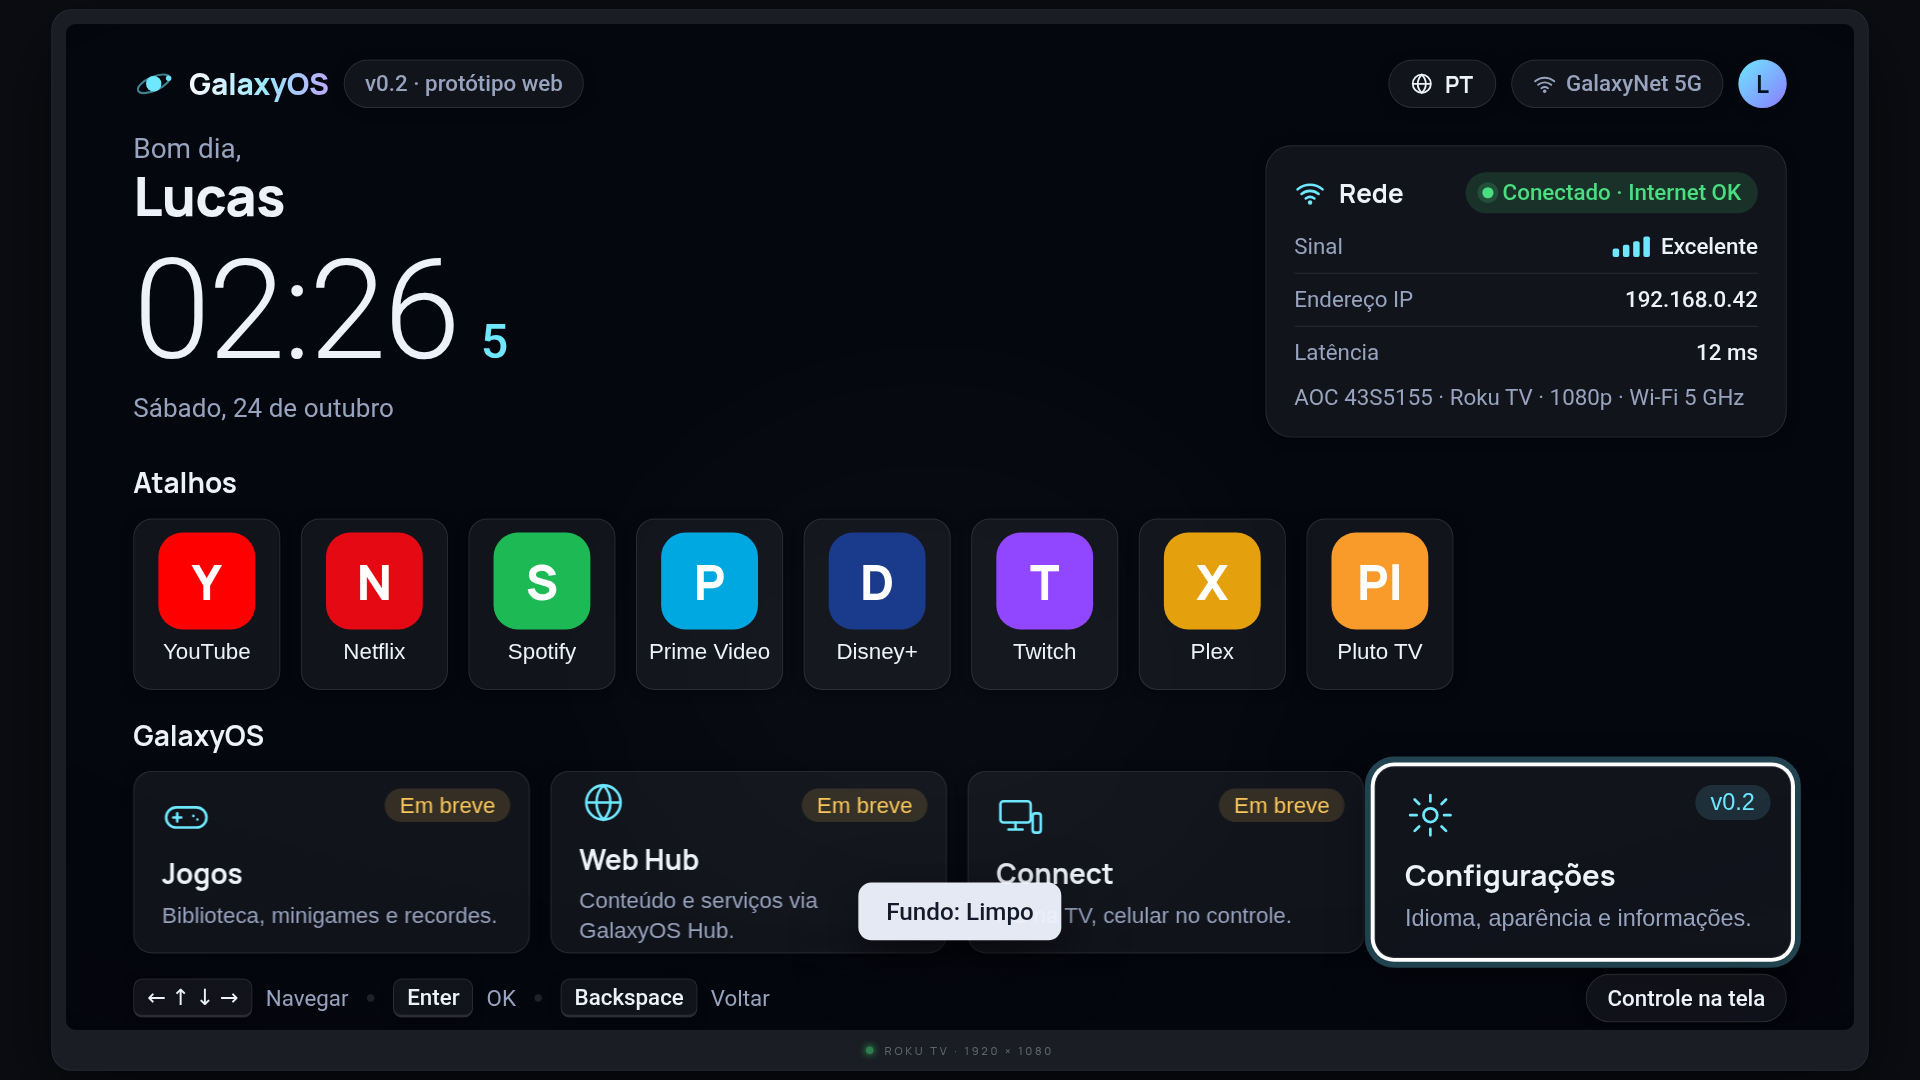
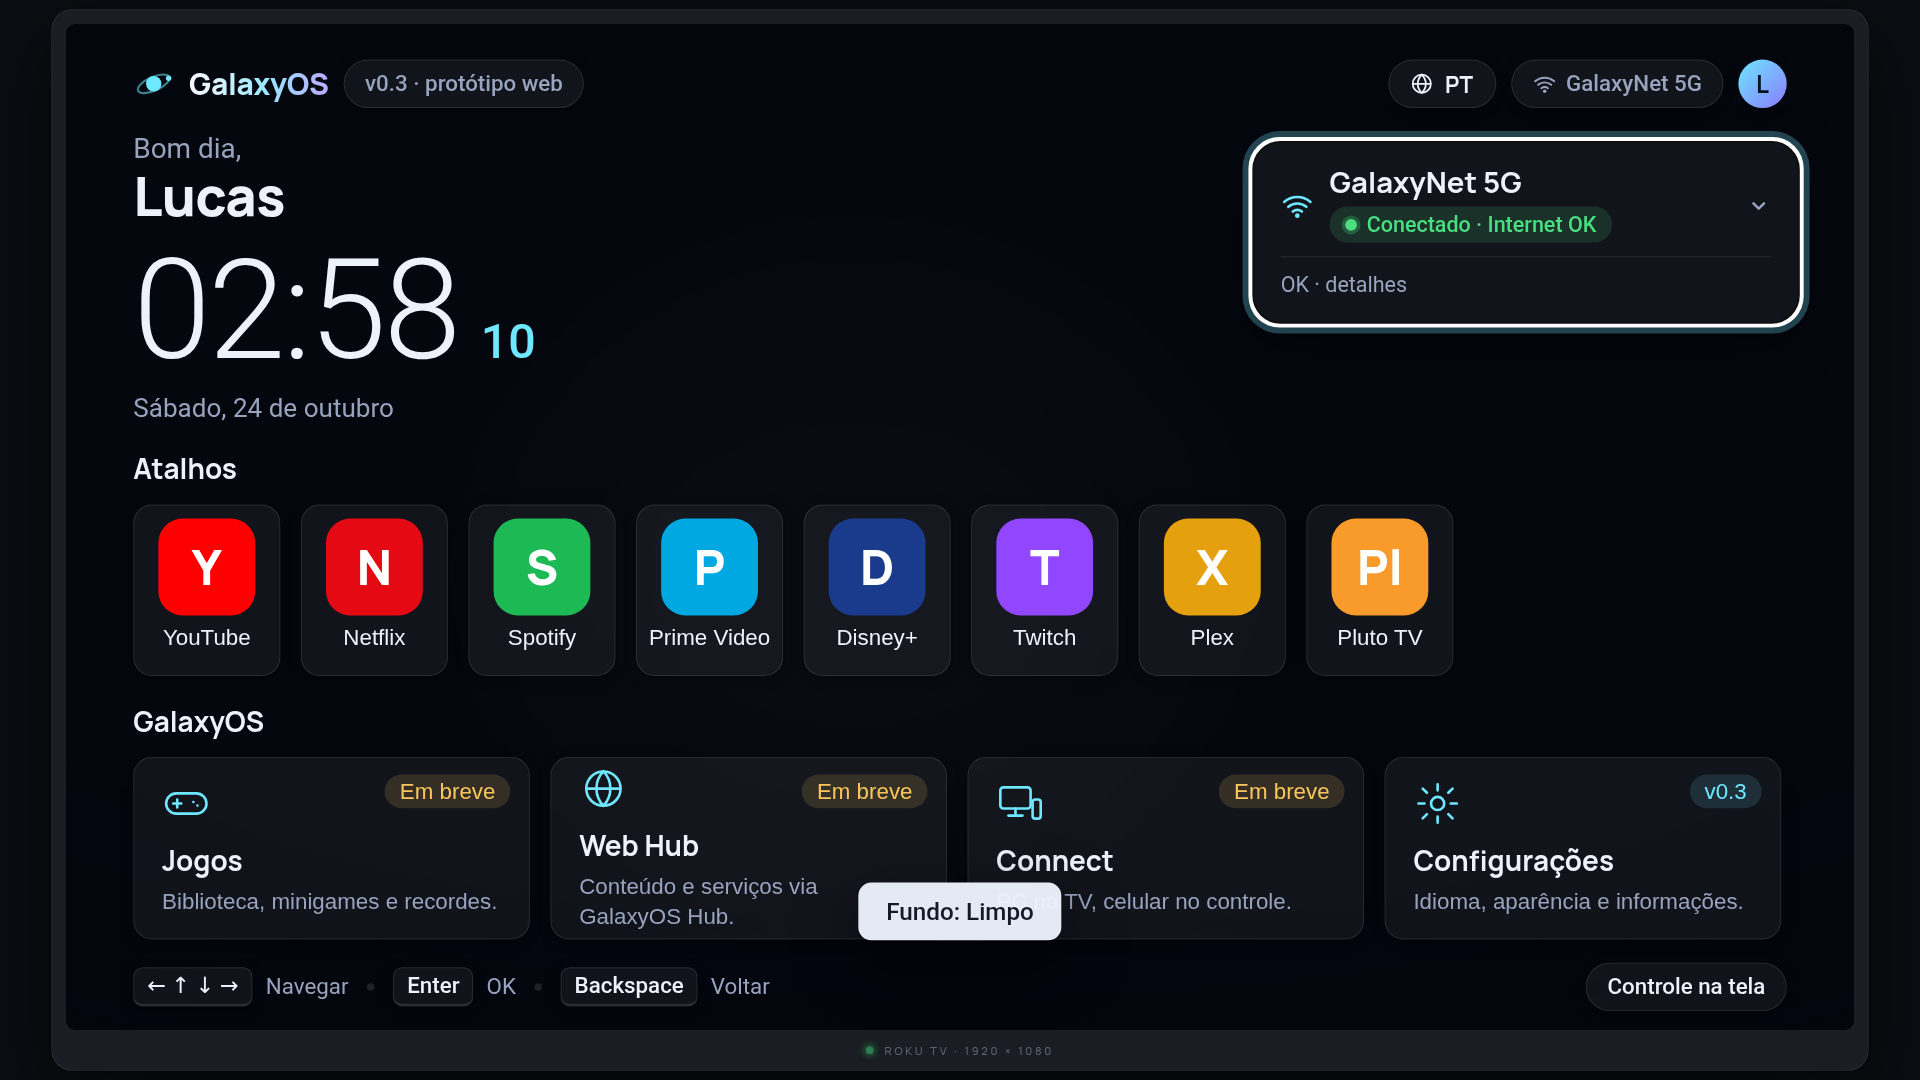
v0.3 — Configurações em drawer lateral + card de rede compacto
- Configurações vira drawer de vidro na direita (Home visível à esquerda)
- Corrige bug: botões X (settings/remote) sem data-focusable não fechavam
- Card de rede: só nome + status; sinal/IP/latência em submenu (OK abre popover)
- Fechar: X, clique no scrim ou Back; submenu fecha ao tirar o foco
- i18n PT/EN atualizado, v0.3

diff --git a/prototype/index.html b/prototype/index.html
@@ -39,7 +39,7 @@
           <circle cx="41.5" cy="17.5" r="3.2" fill="var(--accent)"/>
         </svg>
         <span class="brand-name">GalaxyOS</span>
-        <span class="chip chip-soft" data-i18n="versionChip">v0.2 · protótipo web</span>
+        <span class="chip chip-soft" data-i18n="versionChip">v0.3 · protótipo web</span>
       </div>
       <div class="topbar-right">
         <button class="chip chip-btn" id="langChip" data-focusable aria-label="Idioma / Language">
@@ -65,20 +65,30 @@
         <p class="clock-date" id="clockDate">—</p>
       </div>
 
-      <div class="netcard" aria-label="Status da rede">
-        <div class="netcard-head">
-          <svg class="i-wifi big" viewBox="0 0 24 24" aria-hidden="true"><path d="M2.5 9.5a14.5 14.5 0 0 1 19 0M5.5 13a10 10 0 0 1 13 0M8.7 16.4a5.5 5.5 0 0 1 6.6 0" fill="none" stroke="currentColor" stroke-width="1.9" stroke-linecap="round"/><circle cx="12" cy="19.4" r="1.7" fill="currentColor"/></svg>
-          <h2 data-i18n="netTitle">Rede</h2>
-          <span class="netcard-badge"><span class="dot dot-ok"></span><span data-i18n="netStatus">Conectado · Internet OK</span></span>
+      <!-- card compacto: nome + status; detalhes ficam num submenu (OK) -->
+      <div class="netcard-wrap">
+        <div class="netcard" id="netcard" data-focusable data-activate role="button" tabindex="-1"
+             aria-expanded="false" aria-controls="netDetails" aria-label="Status da rede">
+          <div class="netcard-row">
+            <svg class="i-wifi big" viewBox="0 0 24 24" aria-hidden="true"><path d="M2.5 9.5a14.5 14.5 0 0 1 19 0M5.5 13a10 10 0 0 1 13 0M8.7 16.4a5.5 5.5 0 0 1 6.6 0" fill="none" stroke="currentColor" stroke-width="1.9" stroke-linecap="round"/><circle cx="12" cy="19.4" r="1.7" fill="currentColor"/></svg>
+            <div class="netcard-id">
+              <span class="netcard-name">GalaxyNet 5G</span>
+              <span class="netcard-badge"><span class="dot dot-ok"></span><span data-i18n="netStatus">Conectado · Internet OK</span></span>
+            </div>
+            <svg class="chev" viewBox="0 0 24 24" aria-hidden="true"><path d="M7 10l5 5 5-5" fill="none" stroke="currentColor" stroke-width="2.4" stroke-linecap="round" stroke-linejoin="round"/></svg>
+          </div>
+          <p class="netcard-more" data-i18n="netMore">OK · detalhes</p>
         </div>
-        <dl class="netcard-rows">
-          <div class="netcard-row"><dt data-i18n="netSignal">Sinal</dt><dd>
-            <span class="bars" aria-hidden="true"><i></i><i></i><i></i><i></i></span>
-            <span data-i18n="netSignalValue">Excelente</span></dd></div>
-          <div class="netcard-row"><dt data-i18n="netIp">Endereço IP</dt><dd class="mono">192.168.0.42</dd></div>
-          <div class="netcard-row"><dt data-i18n="netPing">Latência</dt><dd class="mono">12 ms</dd></div>
-        </dl>
-        <p class="netcard-foot">AOC 43S5155 · Roku TV · 1080p · Wi-Fi 5 GHz</p>
+        <div class="netcard-pop" id="netDetails" hidden>
+          <dl class="netcard-rows">
+            <div class="netcard-row"><dt data-i18n="netSignal">Sinal</dt><dd>
+              <span class="bars" aria-hidden="true"><i></i><i></i><i></i><i></i></span>
+              <span data-i18n="netSignalValue">Excelente</span></dd></div>
+            <div class="netcard-row"><dt data-i18n="netIp">Endereço IP</dt><dd class="mono">192.168.0.42</dd></div>
+            <div class="netcard-row"><dt data-i18n="netPing">Latência</dt><dd class="mono">12 ms</dd></div>
+          </dl>
+          <p class="netcard-foot">AOC 43S5155 · Roku TV · 1080p · Wi-Fi 5 GHz</p>
+        </div>
       </div>
     </section>
 
@@ -134,7 +144,7 @@
         </button>
 
         <button class="module" data-focusable data-module="settings">
-          <span class="module-badge badge-now" data-i18n="badgeNow">v0.2</span>
+          <span class="module-badge badge-now" data-i18n="badgeNow">v0.3</span>
           <svg class="module-icon" viewBox="0 0 48 48" aria-hidden="true">
             <circle cx="24" cy="24" r="6.5" fill="none" stroke="currentColor" stroke-width="2.6"/>
             <path d="M24 5v6M24 37v6M9.2 9.2l4.2 4.2M34.6 34.6l4.2 4.2M5 24h6M37 24h6M9.2 38.8l4.2-4.2M34.6 13.4l4.2-4.2" stroke="currentColor" stroke-width="2.6" stroke-linecap="round"/>
@@ -161,7 +171,7 @@
     <!-- ══ CONTROLE NA TELA (p/ celular) ══ -->
     <div class="remote" id="remote" hidden>
       <div class="remote-head"><span data-i18n="remoteTitle">Controle</span>
-        <button class="icon-btn" id="remoteClose" aria-label="Fechar controle">
+        <button class="icon-btn" id="remoteClose" data-focusable aria-label="Fechar controle">
           <svg viewBox="0 0 24 24"><path d="M6 6l12 12M18 6L6 18" stroke="currentColor" stroke-width="2.4" stroke-linecap="round"/></svg>
         </button>
       </div>
@@ -177,10 +187,10 @@
 
     <!-- ══ CONFIGURAÇÕES ══ -->
     <div class="overlay" id="overlaySettings" hidden>
-      <div class="modal" role="dialog" aria-modal="true" aria-labelledby="settingsTitle">
+      <div class="drawer" role="dialog" aria-modal="true" aria-labelledby="settingsTitle">
         <div class="modal-head">
           <h2 id="settingsTitle" data-i18n="settings">Configurações</h2>
-          <button class="icon-btn" id="settingsClose" aria-label="Fechar">
+          <button class="icon-btn" id="settingsClose" data-focusable aria-label="Fechar">
             <svg viewBox="0 0 24 24"><path d="M6 6l12 12M18 6L6 18" stroke="currentColor" stroke-width="2.4" stroke-linecap="round"/></svg>
           </button>
         </div>

diff --git a/prototype/css/style.css b/prototype/css/style.css
@@ -24,7 +24,7 @@
   --ok:#4ADE80;   --ok-soft:rgba(74,222,128,.15);   --pulse:rgba(74,222,128,.42);
   --warn:#FBC75C; --warn-soft:rgba(251,199,92,.15);
   --toast-bg:rgba(238,243,253,.96); --toast-fg:#131A29;
-  --scrim:rgba(3,5,12,.58);
+  --scrim:rgba(3,5,12,.38);
   --avatar-bg:linear-gradient(135deg,#6EE7FF,#8B7CFF);
   --avatar-fg:#04121C;
   --r-lg:28px; --r-md:20px; --r-sm:14px;
@@ -68,7 +68,7 @@ html[data-theme='light']{
   --ok:#14804A;   --ok-soft:#E3F4EB;   --pulse:rgba(20,128,74,.35);
   --warn:#92400E; --warn-soft:#FCEFC7;
   --toast-bg:#1B2233; --toast-fg:#FFFFFF;
-  --scrim:rgba(16,18,22,.45);
+  --scrim:rgba(16,18,22,.30);
   --avatar-bg:#0B57D0;
   --avatar-fg:#FFFFFF;
   --sh-1:0 2px 10px rgba(27,34,51,.06);
@@ -187,6 +187,7 @@ html[data-theme='dark'] .brand-name{
   flex:none;display:grid;grid-template-columns:1fr 560px;gap:56px;
   align-items:start;margin-top:16px;
 }
+.hero.pop-open{z-index:20}
 .greeting{font-size:30px;color:var(--text-2);font-weight:400}
 .user-name{font-family:var(--f-display);font-weight:800;font-size:58px;letter-spacing:-.015em;line-height:1.08;margin-top:2px}
 .clock{margin-top:16px;display:flex;align-items:baseline;gap:24px}
@@ -200,17 +201,35 @@ html[data-theme='dark'] .brand-name{
 }
 .clock-date{margin-top:14px;font-size:28px;color:var(--text-2)}
 
+/* ── card de rede compacto: só nome + status (os detalhes
+   vivem no popover abaixo, aberto com OK) ── */
+.netcard-wrap{position:relative;margin-top:14px}
 .netcard{
   background:var(--surface);border:1px solid var(--line);border-radius:var(--r-lg);
-  box-shadow:var(--sh-1);padding:28px 30px;margin-top:14px;
-  backdrop-filter:blur(7px);
+  box-shadow:var(--sh-1);padding:26px 28px;backdrop-filter:blur(7px);cursor:pointer;
+  display:flex;flex-direction:column;gap:16px;
 }
-.netcard-head{display:flex;align-items:center;gap:14px}
-.netcard-head h2{font-family:var(--f-display);font-weight:700;font-size:28px;margin-right:auto}
-.netcard-head .i-wifi.big{width:34px;height:34px;color:var(--accent)}
+.netcard-row{display:flex;align-items:center;gap:16px}
+.netcard .i-wifi.big{width:34px;height:34px;color:var(--accent);flex:none}
+.netcard-id{display:flex;flex-direction:column;gap:10px;margin-right:auto}
+.netcard-name{font-family:var(--f-display);font-weight:700;font-size:30px;line-height:1;color:var(--text)}
+.chev{width:26px;height:26px;color:var(--text-2);flex:none;transition:transform .18s ease-out}
+.netcard[aria-expanded="true"] .chev{transform:rotate(180deg)}
+.netcard-more{font-size:22px;color:var(--text-2)}
+
+/* submenu de detalhes (popover de vidro) */
+.netcard-pop{
+  position:absolute;top:calc(100% + 14px);right:0;width:100%;
+  background:var(--panel);border:1px solid var(--line);border-radius:var(--r-md);
+  box-shadow:var(--sh-2);backdrop-filter:blur(20px);
+  padding:24px 28px;z-index:30;
+  animation:pop-in .2s cubic-bezier(.2,.8,.2,1);
+}
+@keyframes pop-in{from{opacity:0;transform:translateY(-8px)}}
+.netcard-pop .netcard-rows{margin-top:0}
 .netcard-badge{
   display:inline-flex;align-items:center;gap:10px;background:var(--ok-soft);color:var(--ok);
-  font-size:24px;font-weight:500;border-radius:22px;padding:8px 18px
+  font-size:22px;font-weight:500;border-radius:22px;padding:6px 16px;width:fit-content
 }
 .dot{width:12px;height:12px;border-radius:50%;flex:none}
 .dot-ok{background:var(--ok);animation:pulse 2.2s ease-in-out infinite}
@@ -269,7 +288,7 @@ button:focus{outline:none}
 .focused .tile-glyph{transform:translateY(-2px)}
 .focused.chip-btn:not(.active),.focused.tile,.focused.module,
 .focused.icon-btn:not(.active),.focused.seg-btn:not(.active){background:var(--surface)}
-.tile,.module,.chip-btn,.icon-btn,.seg-btn{transition:transform .13s ease-out, box-shadow .13s ease-out, background .13s ease-out}
+.tile,.module,.chip-btn,.icon-btn,.seg-btn,.netcard{transition:transform .13s ease-out, box-shadow .13s ease-out, background .13s ease-out}
 
 /* ══ BARRA DE AJUDA ══ */
 .hintbar{
@@ -320,16 +339,20 @@ button:focus{outline:none}
 }
 .remote-back,.dp-ok,.dp-btn,.icon-btn{transition:transform .1s ease-out}
 
-/* ══ OVERLAY DE CONFIGURAÇÕES ══ */
+/* ══ OVERLAY + DRAWER LATERAL DE CONFIGURAÇÕES ══
+   drawer na direita: a Home continua visível à esquerda */
 .overlay{
-  position:absolute;inset:0;background:var(--scrim);backdrop-filter:blur(3px);
-  display:flex;align-items:center;justify-content:center;z-index:60
+  position:absolute;inset:0;background:var(--scrim);backdrop-filter:blur(2.5px);
+  display:flex;align-items:stretch;justify-content:flex-end;z-index:60
 }
-.modal{
-  width:820px;max-height:975px;background:var(--panel);border:1px solid var(--line);border-radius:var(--r-lg);
+.drawer{
+  width:640px;height:100%;background:var(--panel);border:1px solid var(--line);border-right:none;
+  border-radius:var(--r-lg) 0 0 var(--r-lg);
   box-shadow:var(--sh-2);backdrop-filter:blur(22px);
-  padding:30px 36px;display:flex;flex-direction:column;overflow:auto
+  padding:30px 36px;display:flex;flex-direction:column;overflow:auto;
+  animation:drawer-in .26s cubic-bezier(.2,.8,.2,1)
 }
+@keyframes drawer-in{from{transform:translateX(80px);opacity:0}}
 .modal-head{display:flex;align-items:center;justify-content:space-between;margin-bottom:6px}
 .modal-head h2{font-family:var(--f-display);font-weight:800;font-size:40px}
 .modal-section{margin-top:20px}

diff --git a/prototype/js/app.js b/prototype/js/app.js
@@ -11,17 +11,18 @@
 
 const I18N = {
   pt: {
-    versionChip: 'v0.2 · protótipo web',
+    versionChip: 'v0.3 · protótipo web',
     greetingMorning: 'Bom dia,', greetingAfternoon: 'Boa tarde,', greetingEvening: 'Boa noite,',
     netTitle: 'Rede', netStatus: 'Conectado · Internet OK',
     netSignal: 'Sinal', netSignalValue: 'Excelente',
     netIp: 'Endereço IP', netPing: 'Latência',
+    netMore: 'OK · detalhes',
     shortcuts: 'Atalhos', modules: 'GalaxyOS',
     modGames: 'Jogos', modGamesDesc: 'Biblioteca, minigames e recordes.',
     modWebDesc: 'Conteúdo e serviços via GalaxyOS Hub.',
     modConnectDesc: 'PC na TV, celular no controle.',
     modSettings: 'Configurações', modSettingsDesc: 'Idioma, aparência e informações.',
-    badgeSoon: 'Em breve', badgeNow: 'v0.2',
+    badgeSoon: 'Em breve', badgeNow: 'v0.3',
     hintNav: 'Navegar', hintOk: 'OK', hintBack: 'Voltar',
     remoteToggle: 'Controle na tela', remoteTitle: 'Controle',
     settings: 'Configurações', settingsLang: 'Idioma',
@@ -43,17 +44,18 @@ const I18N = {
     locale: 'pt-BR'
   },
   en: {
-    versionChip: 'v0.2 · web prototype',
+    versionChip: 'v0.3 · web prototype',
     greetingMorning: 'Good morning,', greetingAfternoon: 'Good afternoon,', greetingEvening: 'Good evening,',
     netTitle: 'Network', netStatus: 'Connected · Internet OK',
     netSignal: 'Signal', netSignalValue: 'Excellent',
     netIp: 'IP address', netPing: 'Latency',
+    netMore: 'OK · details',
     shortcuts: 'Shortcuts', modules: 'GalaxyOS',
     modGames: 'Games', modGamesDesc: 'Library, mini-games and high scores.',
     modWebDesc: 'Content and services via the GalaxyOS Hub.',
     modConnectDesc: 'PC on the TV, phone as the remote.',
     modSettings: 'Settings', modSettingsDesc: 'Language, appearance and info.',
-    badgeSoon: 'Coming soon', badgeNow: 'v0.2',
+    badgeSoon: 'Coming soon', badgeNow: 'v0.3',
     hintNav: 'Navigate', hintOk: 'OK', hintBack: 'Back',
     remoteToggle: 'On-screen remote', remoteTitle: 'Remote',
     settings: 'Settings', settingsLang: 'Language',
@@ -92,6 +94,9 @@ const stage        = $('#stage');
 const remote       = $('#remote');
 const overlay      = $('#overlaySettings');
 const toastEl      = $('#toast');
+const netcard      = $('#netcard');
+const netPop       = $('#netDetails');
+const heroEl       = $('.hero');
 let toastTimer = null;
 
 function toast(msg) {
@@ -129,6 +134,7 @@ function setFocus(el, silent) {
   if (!el) return;
   el.classList.add('focused');
   el.focus({ preventScroll: true });
+  if (el !== netcard) closeNetcard();   /* submenu de rede fecha ao sair do card */
   if (!silent) blip(el);
 }
 
@@ -194,6 +200,8 @@ function moveFocus(dir) {
 function activate(el) {
   if (!el) return;
 
+  if (el.id === 'netcard')  { toggleNetcard(); return; }
+
   if (el.dataset.app)     { toast(t('toastApp')(el.dataset.app)); return; }
 
   if (el.dataset.module) {
@@ -245,9 +253,23 @@ function closeSettings() {
   setFocus(beforeOverlayFocus || $('#railShortcuts .tile'));
 }
 
+/* ── card de rede: detalhes num submenu (popover de vidro) ── */
+
+function toggleNetcard(force) {
+  const open = (force === undefined) ? netPop.hidden : force;
+  netPop.hidden = !open;
+  netcard.setAttribute('aria-expanded', open);
+  heroEl.classList.toggle('pop-open', open);
+}
+
+function closeNetcard() {
+  if (!netPop.hidden) toggleNetcard(false);
+}
+
 function back() {
   if (!remote.hidden)    { showRemote(false);  setFocus($('#remoteToggle')); return; }
   if (!overlay.hidden)   { closeSettings(); return; }
+  if (!netPop.hidden)    { closeNetcard(); return; }
   toast(t('toastHome'));
 }
 
@@ -434,11 +456,15 @@ document.addEventListener('keydown', (e) => {
   if (KEYMAP[e.key]) { e.preventDefault(); moveFocus(KEYMAP[e.key]); return; }
 
   if (e.key === 'Enter' || e.key === ' ') {
-    /* Enter num botão nativo dispara click — evita duplicar */
-    if (e.key === ' ' ) e.preventDefault();
+    /* Enter num botão nativo dispara click — evita duplicar;
+       elementos com data-activate (card de rede) ativam aqui */
+    if (e.key === ' ') e.preventDefault();
     const el = $('.focused');
-    if (el && !el.matches('button')) return;
-    if (el) { e.preventDefault(); activate(el); }
+    if (!el) return;
+    if (el.matches('button') || el.hasAttribute('data-activate')) {
+      e.preventDefault();
+      activate(el);
+    }
     return;
   }
 
@@ -451,6 +477,11 @@ document.addEventListener('keydown', (e) => {
 document.addEventListener('click', (e) => {
   const el = e.target.closest('[data-focusable]');
   if (el) { setFocus(el, true); activate(el); }
+});
+
+/* clique no scrim do drawer também fecha as configurações */
+overlay.addEventListener('click', (e) => {
+  if (e.target === overlay) closeSettings();
 });
 
 /* controle na tela: mesmos eventos */

diff --git a/README.md b/README.md
@@ -4,15 +4,15 @@ Protótipo e base de projeto para um **channel Roku** que funciona como ambiente
 
 Este repo reúne as três primeiras peças do plano:
 
-1. **`prototype/`** — a versão teste web da Home (v0.2), navegável por setas como um controle real, bilíngue PT/EN, estática (HTML/CSS/JS puro, sem build).
+1. **`prototype/`** — a versão teste web da Home (v0.3), navegável por setas como um controle real, bilíngue PT/EN, estática (HTML/CSS/JS puro, sem build).
 2. **`skills/`** — as 4 skills do autor (projects · design · security · theskill/craftsmanship) **adaptadas para a área Roku**, que passam a guiar o desenvolvimento do channel.
 3. **`docs/`** — a pesquisa verificada nas fontes oficiais da Roku (o que muda decisões de arquitetura) e os screenshots dos estados do protótipo.
 
 ---
 
-## O protótipo (v0.2 — Só Home)
+## O protótipo (v0.3 — Só Home)
 
-Visual **escuro "Deep Space"** — fundo padrão **Nebulosa** (nebulosas em movimento + ~210 estrelas cintilando em canvas + estrela cadente ocasional), variantes **Aurora** e **Limpo**, e o tema **claro minimal estilo Google TV** (v0.1) preservado — tudo em **Configurações → Aparência** · palco fixo **1920×1080** com moldura de TV · **foco = cursor** (setas navegam, Enter = OK, Backspace/Esc = Voltar) · relógio ao vivo com data por locale · card de status de rede · 8 atalhos · 4 módulos (Jogos, Web Hub e Connect como "Em breve"; Configurações funcional) · **controle na tela** (D-pad clicável, para testar no celular) · idioma, tema e fundo persistidos em `localStorage` · `prefers-reduced-motion` respeitado (estrelas fixas, sem estrela cadente).
+Visual **escuro "Deep Space"** — fundo padrão **Nebulosa** (nebulosas em movimento + ~210 estrelas cintilando em canvas + estrela cadente ocasional), variantes **Aurora** e **Limpo**, e o tema **claro minimal estilo Google TV** (v0.1) preservado — tudo em **Configurações → Aparência** · palco fixo **1920×1080** com moldura de TV · **foco = cursor** (setas navegam, Enter = OK, Backspace/Esc = Voltar) · relógio ao vivo com data por locale · **card de rede compacto** (nome + status; sinal/IP/latência num submenu que abre com OK) · 8 atalhos · 4 módulos (Jogos, Web Hub e Connect como "Em breve"; Configurações funcional) · **Configurações em drawer lateral** (desliza da direita, Home continua visível; fecha com ✕, Back ou clique fora) · **controle na tela** (D-pad clicável, para testar no celular) · idioma, tema e fundo persistidos em `localStorage` · `prefers-reduced-motion` respeitado (estrelas fixas, sem estrela cadente).
 
 ### Testar agora
 
